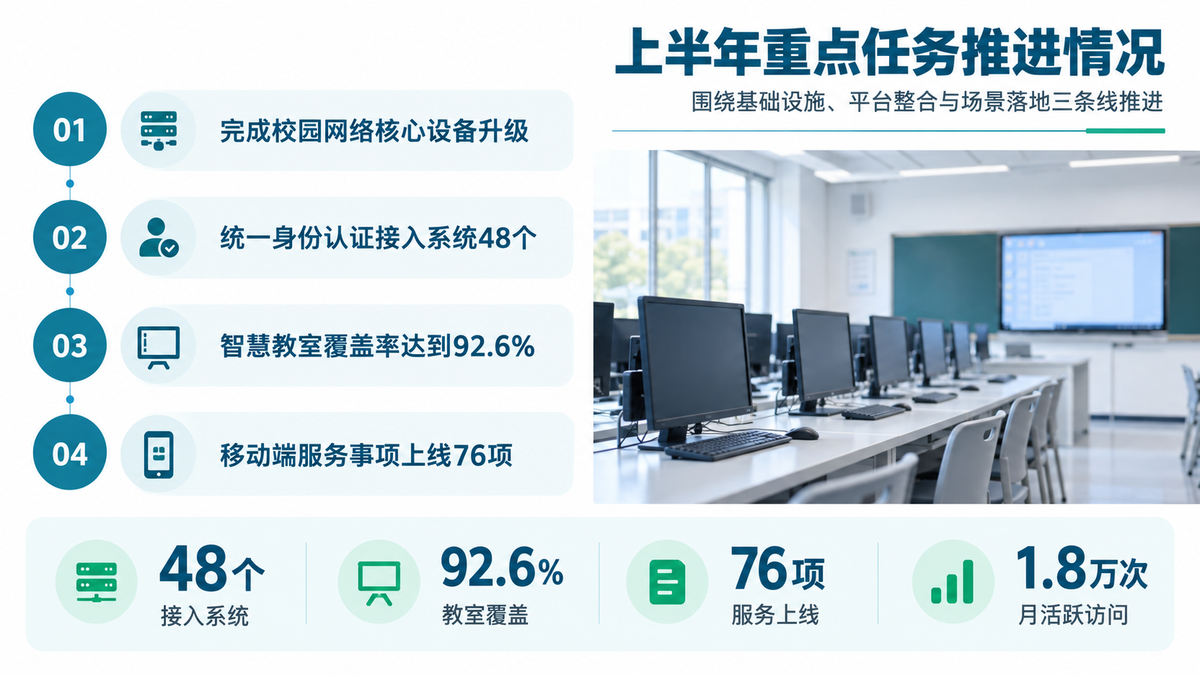
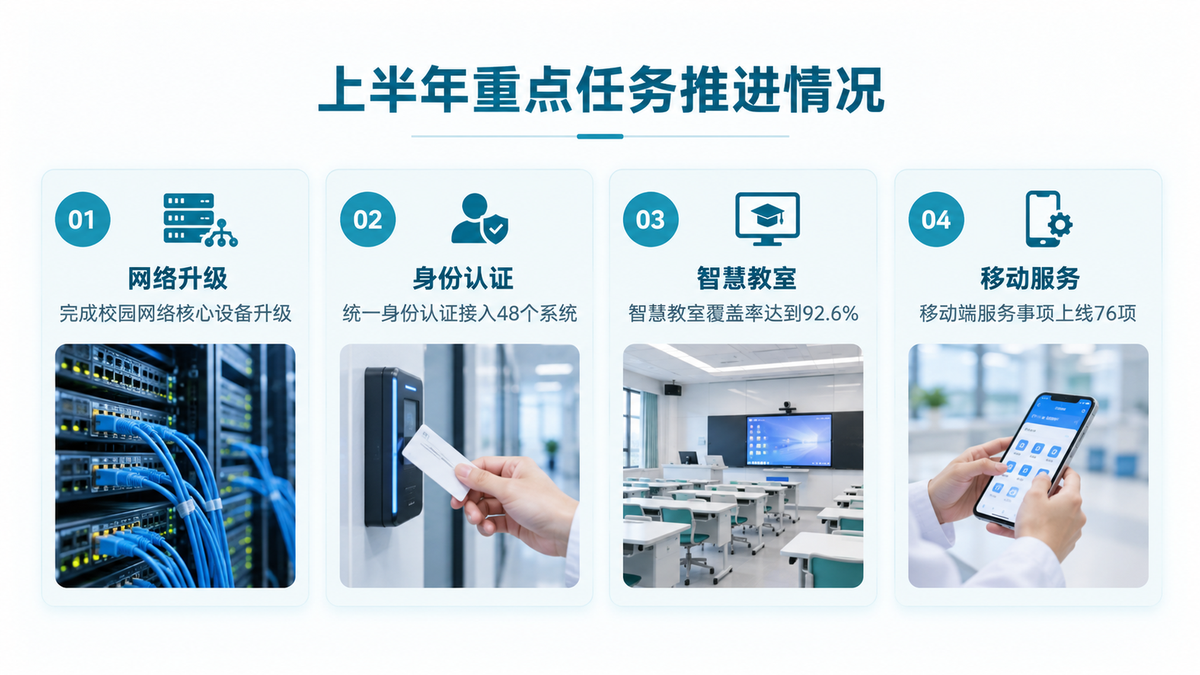
精修模板预览与生成提示：版心留白≥7%、字号收敛；重建 6 套风格内容页并换掉 PDF复刻的坏图

diff --git a/server/app/render.py b/server/app/render.py
@@ -87,7 +87,7 @@ def _font(size: int) -> ImageFont.FreeTypeFont:
 
 NEGATIVE = ("不要水印、不要 logo、不要页码、不要二维码、不要署名、不要乱码；"
             "文字必须清晰可读、不重叠、不出画布、不被裁切；不得改写文字、不得用同音字近形字替换、不得凭空加字；"
-            "不要装饰性英文、不要 Lorem ipsum；所有元素留在画布内（含 2% 安全边距）。")
+            "不要装饰性英文、不要 Lorem ipsum；所有元素留在画布内且四周留足安全边距（≥ 画幅宽 7%），不要贴边或压边。")
 
 
 def assemble_prompt(style: Dict[str, Any], layout_key: str, content: Dict[str, Any], size: str = "2K") -> str:
@@ -117,6 +117,11 @@ def assemble_prompt(style: Dict[str, Any], layout_key: str, content: Dict[str, A
             colors.get("accent", colors.get("primary", "#1E78FA")),
             colors.get("accent-2", colors.get("tertiary", "#26ABFE"))),
         "- 标题层级由大到小 3~4 级；正文统一字号；数字可用等宽字形",
+        "",
+        "【版心与比例】（宁松勿挤，精致优先）",
+        "- 四周安全留白 ≥ 画幅宽的 7%（2K 画幅约 144px）；任何文字、图形、卡片都不得贴边或压边",
+        "- 标题字号约画幅高的 6%~8%，正文约 2.2%~2.8%，数字与正文同档；层级清晰、留白充分",
+        "- 元素尺寸克制、细节精致：细线、小图标、克制投影；不要超大字号、不要大色块铺满、不要元素拥挤",
         "",
         "【必须上屏的文字（逐字复制，不得改写、增删、翻译）】",
     ]
